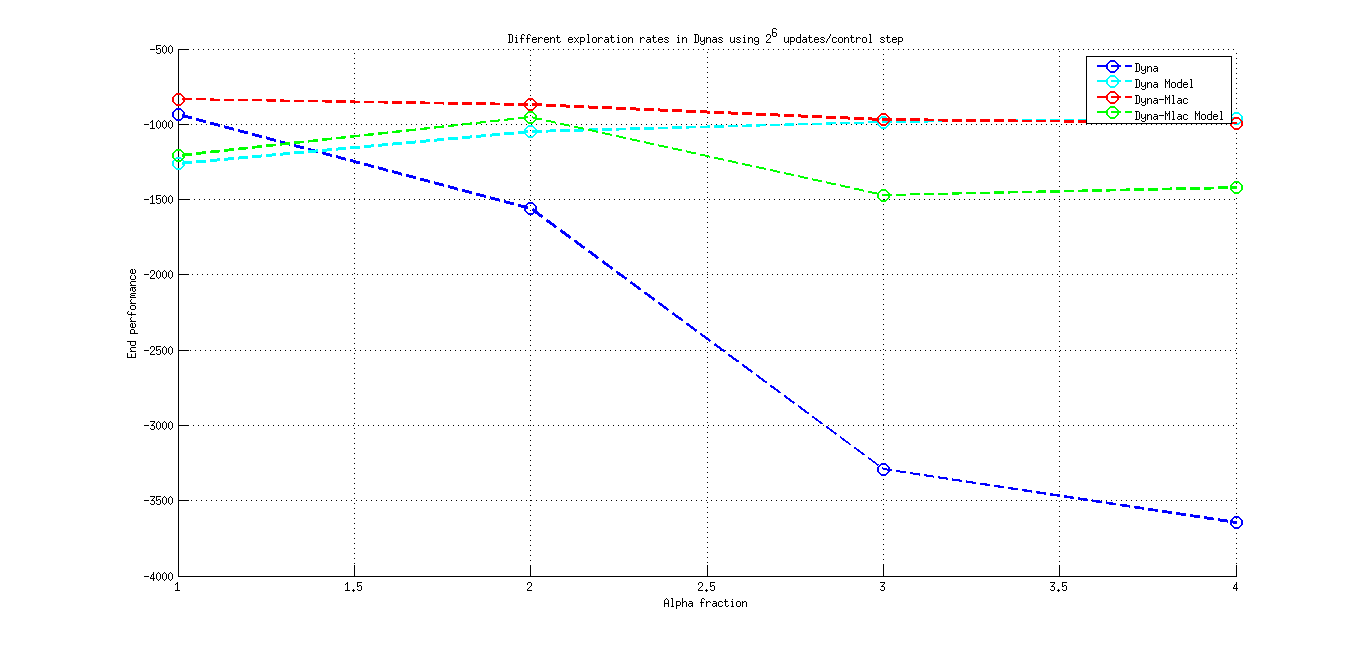
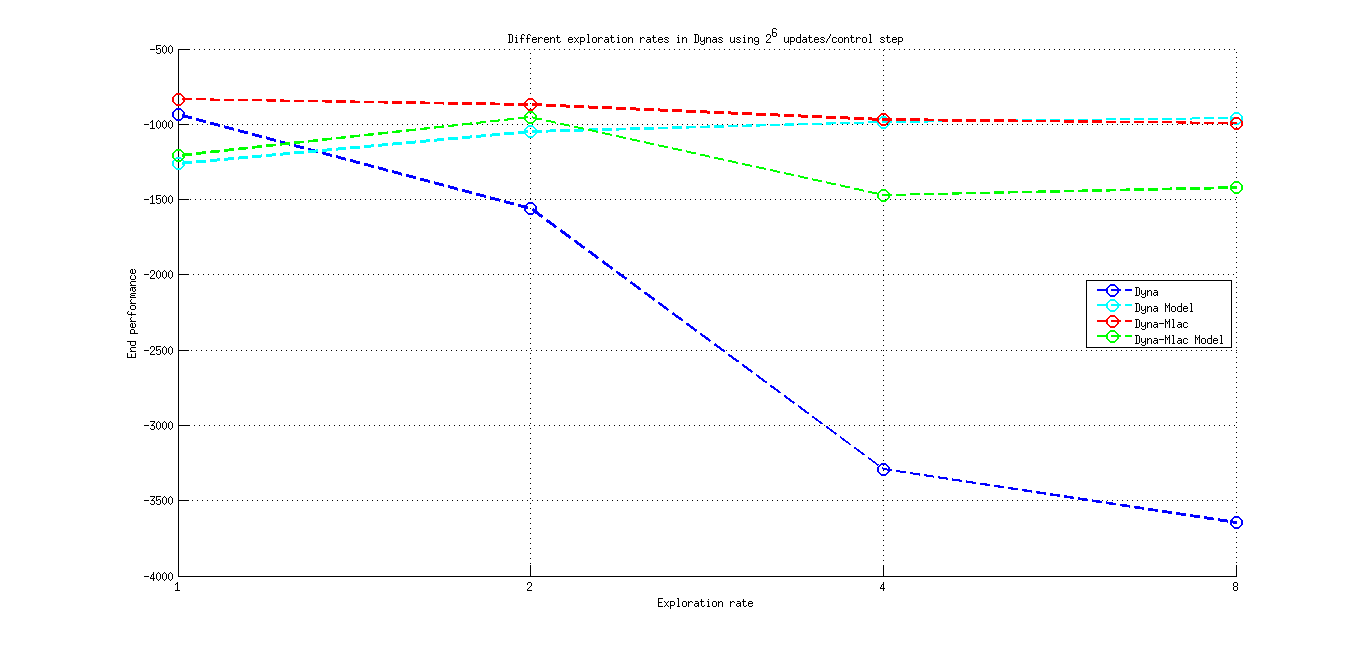
New exploration plot

Changed region(s): [[0.7994, 0.0927, 0.8917, 0.2164], [0.7994, 0.4328, 0.8917, 0.5564], [0.4919, 0.9274, 0.5227, 0.9583]]

diff --git a/AC/matlab/er_plot.m b/AC/matlab/er_plot.m
@@ -36,9 +36,11 @@ plot(dyna,'--bo','LineWidth',2,'MarkerSize',10);
 plot(dynam,'--co','LineWidth',2,'MarkerSize',10);
 plot(dyna_mlac,'--ro','LineWidth',2,'MarkerSize',10);
 plot(dyna_mlacm,'--go','LineWidth',2,'MarkerSize',10);
-xlabel('Alpha fraction');
+xlabel('Exploration rate');
 ylabel('End performance');
-legend('Dyna', 'Dyna Model', 'Dyna-Mlac', 'Dyna-Mlac Model');
+legend('Dyna', 'Dyna Model', 'Dyna-Mlac', 'Dyna-Mlac Model', 'Location','east')
 title('Different exploration rates in Dynas using 2^6 updates/control step');
+set(gca,'XTick',[1 2 3 4])
+set(gca, 'XTickLabel', {'1', '2', '4', '8'});
 grid on;
 hold off;
